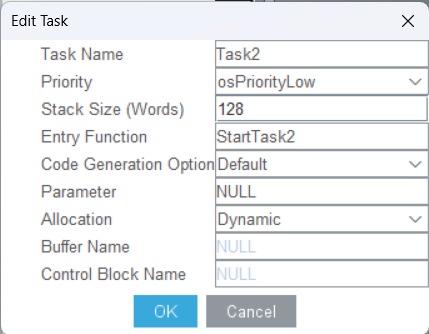
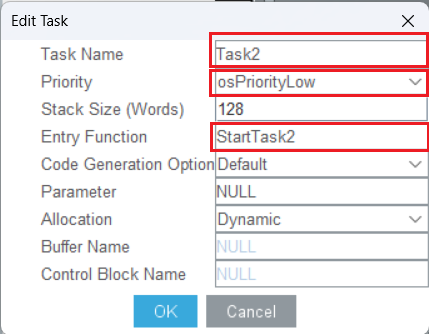
update

Changed region(s): [[0.4848, 0.0898, 1.0, 0.2994], [0.4848, 0.3593, 1.0, 0.479]]

diff --git a/A1_FreeRTOS_Task1/README.md b/A1_FreeRTOS_Task1/README.md
@@ -1,0 +1,78 @@
+# Multithreading Example with FreeRTOS on STM32
+
+This project demonstrates a basic multithreading application using FreeRTOS on an STM32 microcontroller. Two tasks are created, each printing a message at regular intervals.
+
+## Overview
+
+The main purpose of this project is to illustrate how to set up and use FreeRTOS on an STM32 microcontroller for multithreading applications. It includes two tasks:
+
+1. **Task1**: Prints "Task1" to the console every second.
+2. **Task2**: Prints "Task2" to the console every second.
+
+## Setting up SWV ITM Data Console
+Open *syscalls.c* file and paste following code bellow `#include <sys/times.h>`
+
+```c
+//Debug Exception and Monitor Control Register base address
+#define DEMCR                   *((volatile uint32_t*) 0xE000EDFCU )
+
+/* ITM register addresses */
+#define ITM_STIMULUS_PORT0   	*((volatile uint32_t*) 0xE0000000 )
+#define ITM_TRACE_EN          	*((volatile uint32_t*) 0xE0000E00 )
+
+void ITM_SendChar(uint8_t ch)
+{
+
+	//Enable TRCENA
+	DEMCR |= ( 1 << 24);
+
+	//enable stimulus port 0
+	ITM_TRACE_EN |= ( 1 << 0);
+
+	// read FIFO status in bit [0]:
+	while(!(ITM_STIMULUS_PORT0 & 1));
+
+	//Write to ITM stimulus port0
+	ITM_STIMULUS_PORT0 = ch;
+}
+```
+
+After that find function *_write* and replace `__io_putchar(*ptr++)` with `ITM_SendChar(*ptr++)` like in code snippet below
+```c
+__attribute__((weak)) int _write(int file, char *ptr, int len)
+{
+	int DataIdx;
+
+	for (DataIdx = 0; DataIdx < len; DataIdx++)
+	{
+		//__io_putchar(*ptr++);
+		ITM_SendChar(*ptr++);
+	}
+	return len;
+}
+```
+
+## Steps to Perform
+
+Step 1:
+<kbd>![Explore Photos](https://raw.githubusercontent.com/levietduc0712/NUCLEO_F446RE/master/Screenshot/A1_1.png?raw=true)</kbd>
+
+Step 2:
+<kbd>![Explore Photos](https://raw.githubusercontent.com/levietduc0712/NUCLEO_F446RE/master/Screenshot/A1_2.png?raw=true)</kbd>
+
+Step 3:
+<kbd>![Explore Photos](https://raw.githubusercontent.com/levietduc0712/NUCLEO_F446RE/master/Screenshot/A1_3.png?raw=true)</kbd>
+
+Step 4:
+<kbd>![Explore Photos](https://raw.githubusercontent.com/levietduc0712/NUCLEO_F446RE/master/Screenshot/A1_4.png?raw=true)</kbd>
+
+Step 5:
+<kbd>![Explore Photos](https://raw.githubusercontent.com/levietduc0712/NUCLEO_F446RE/master/Screenshot/A1_5.png?raw=true)</kbd>
+
+Step 6:
+<kbd>![Explore Photos](https://raw.githubusercontent.com/levietduc0712/NUCLEO_F446RE/master/Screenshot/A1_6.png?raw=true)</kbd>
+
+Step 7:
+<kbd>![Explore Photos](https://raw.githubusercontent.com/levietduc0712/NUCLEO_F446RE/master/Screenshot/A1_7.png?raw=true)</kbd>
+
+
